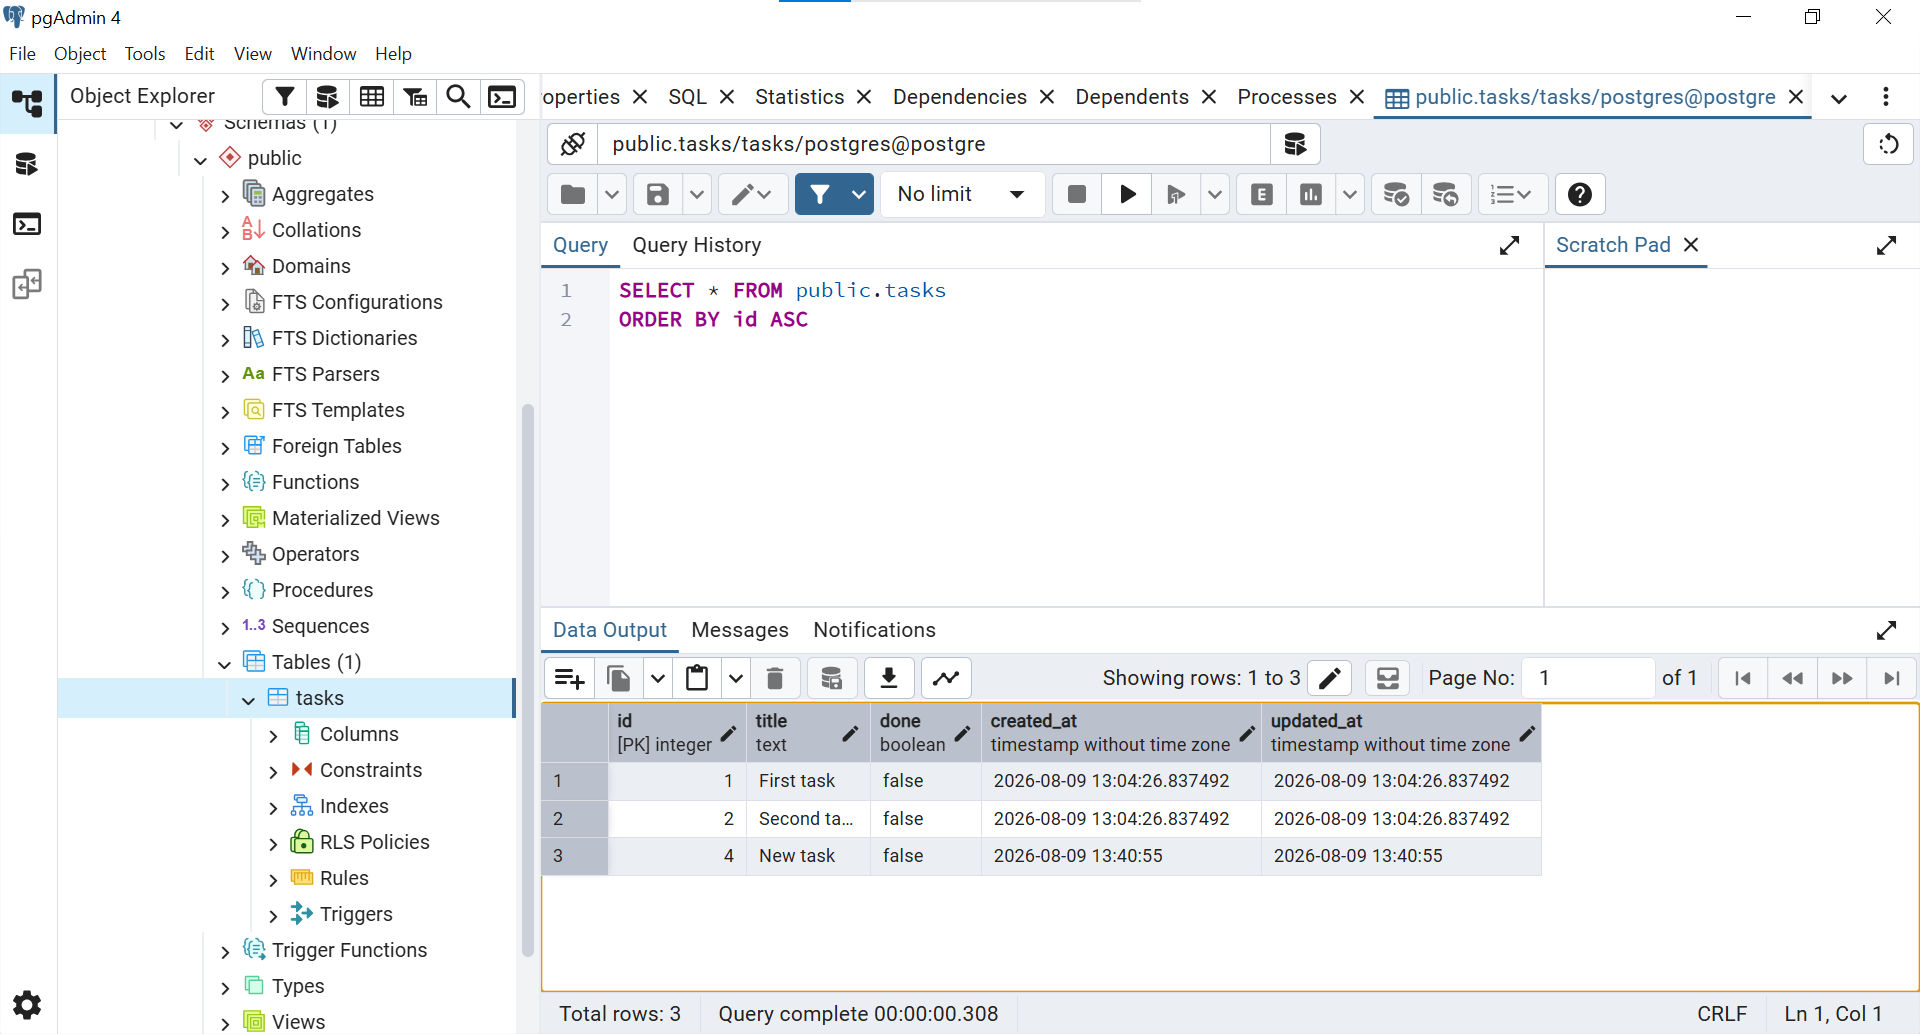
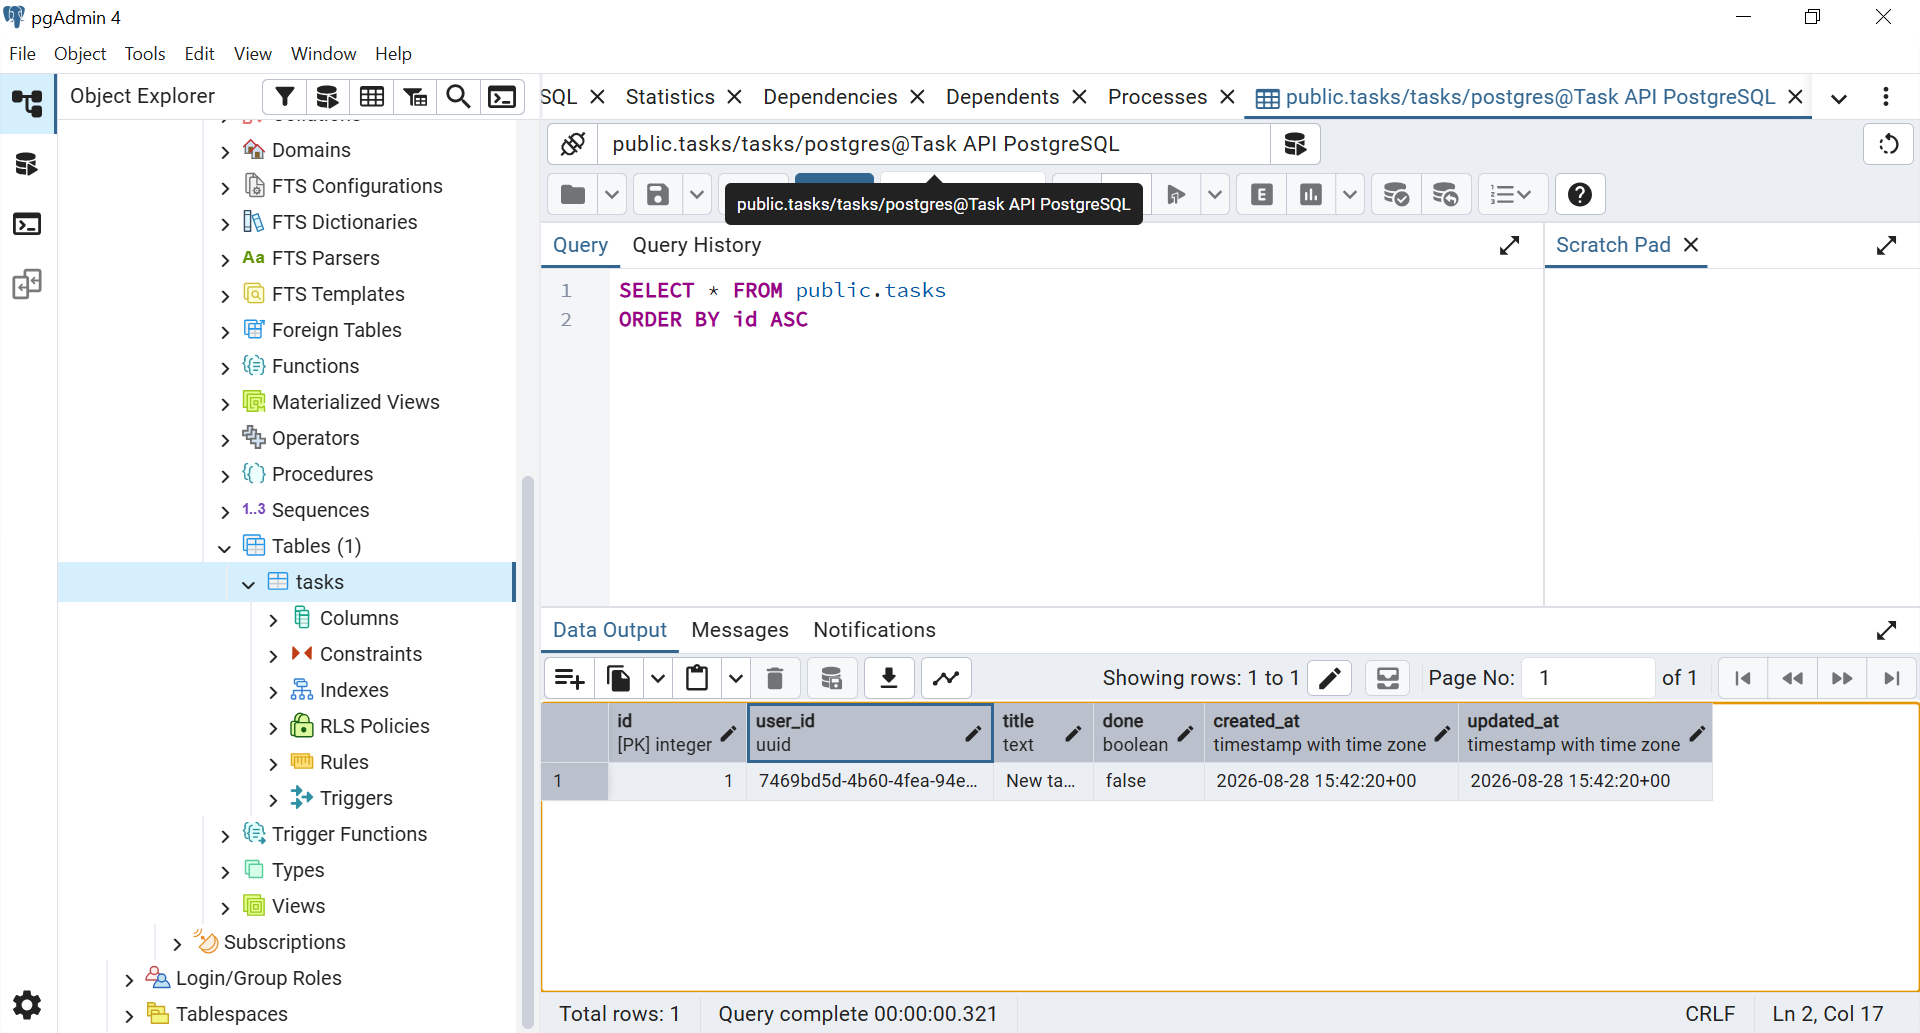
Update README and pgAdmin screenshot

diff --git a/assignments/README.md b/assignments/README.md
@@ -94,6 +94,12 @@ cd Internship/assignments
 docker compose up --build
 ```
 
+To see the documentation, visit:
+
+```
+http://127.0.0.1:8000/docs
+```
+
 For any subsequent runs use:
 
 ```bash
@@ -151,7 +157,7 @@ Adjust the username, password, and database name if your local PostgreSQL config
 
 ## Running the application
 
-Start the server:
+Start the server (required for manual installation only):
 
 ```bash
 fastapi run app/main.py
